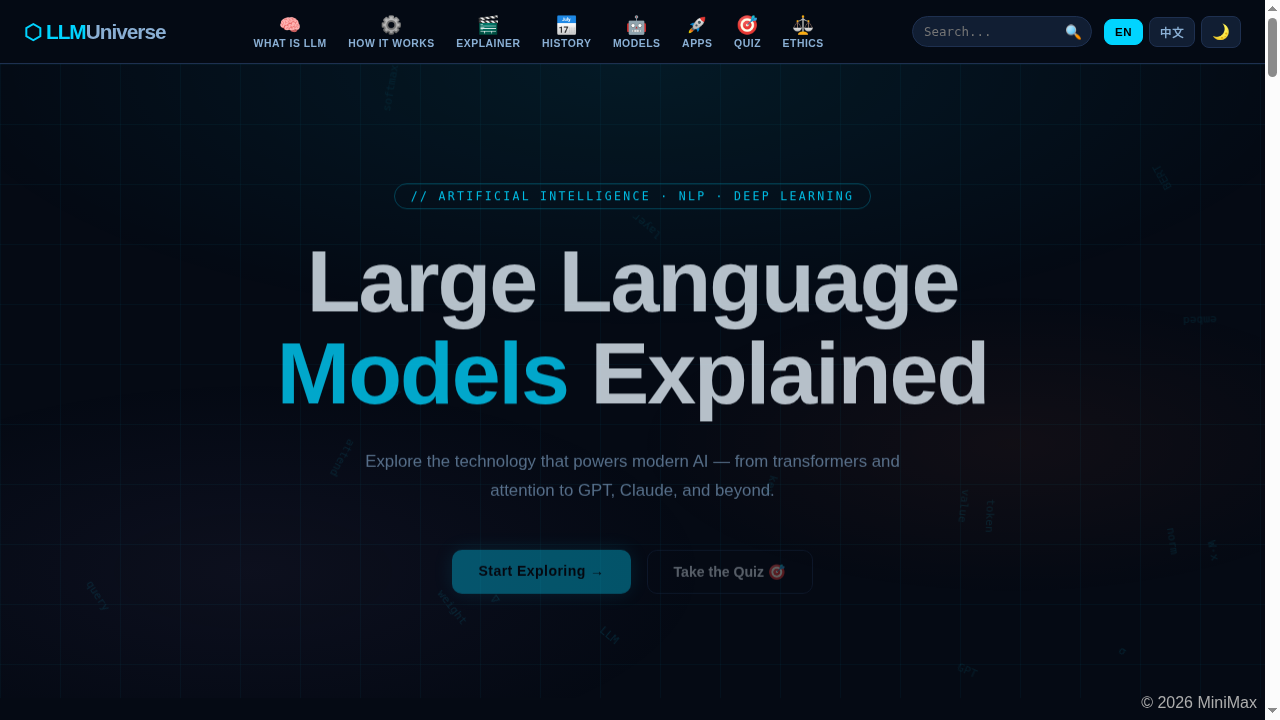
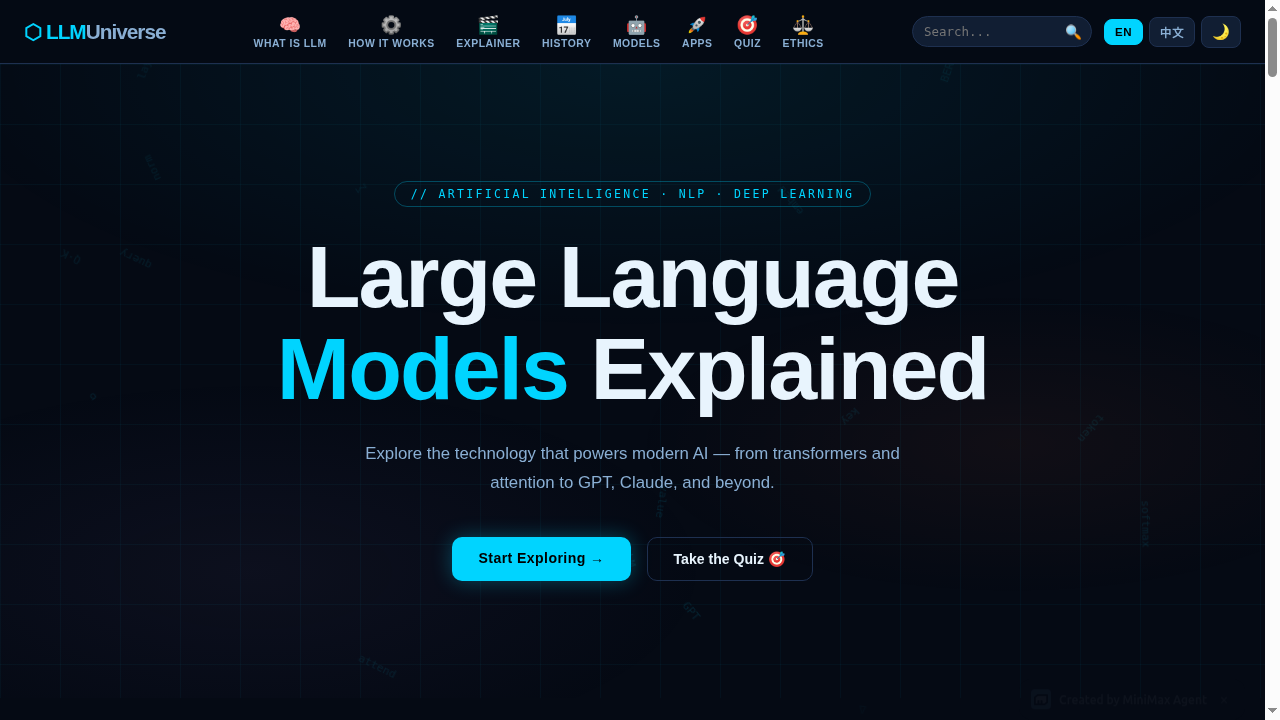
Update Assignment 1 live site URL to new MiniMax deployment

diff --git a/README.md b/README.md
@@ -134,16 +134,16 @@ Supporting deliverables across the semester (experiments above are the core tech
 
 | Assignment | Topic | Link |
 |------------|-------|------|
-| **1** | LLM Universe Educational Website (MiniMax) | [Live site](https://d00r08r76qg9.space.minimaxi.com/) · [assignment1/](assignment1/) |
+| **1** | LLM Universe Educational Website (MiniMax) | [Live site](https://6uejb4yfj0go.space.minimax.io) · [assignment1/](assignment1/) |
 | **2** | CNN-Based MNIST Digit Classification | [assignment2/](assignment2/) |
 | **3** | Swiss Cheese Testing & AI Failure Analysis | [assignment3/](assignment3/) |
 | **4** | Smart Water Decision Support Capstone | [assignment4/](assignment4/) |
 
 <p align="center">
-  <a href="https://d00r08r76qg9.space.minimaxi.com/">
+  <a href="https://6uejb4yfj0go.space.minimax.io">
     <img src="assets/llm_universe_preview.png" alt="Assignment 1 — LLM Universe" width="70%">
   </a><br>
-  <em>Assignment 1 — <a href="https://d00r08r76qg9.space.minimaxi.com/">LLM Universe</a> (MiniMax educational website)</em>
+  <em>Assignment 1 — <a href="https://6uejb4yfj0go.space.minimax.io">LLM Universe</a> (MiniMax educational website)</em>
 </p>
 
 ---

diff --git a/assignment1/README.md b/assignment1/README.md
@@ -11,7 +11,7 @@ Interactive **MiniMax** web application introducing Large Language Models, trans
 
 | Resource | Link |
 |----------|------|
-| **Live site** | [**LLM Universe — Large Language Models Explained**](https://d00r08r76qg9.space.minimaxi.com/) |
+| **Live site** | [**LLM Universe — Large Language Models Explained**](https://6uejb4yfj0go.space.minimax.io) |
 | Preview screenshot | [`assets/llm_universe_preview.png`](../assets/llm_universe_preview.png) |
 
 **Topic:** LLMs, AI foundations, and prompt engineering  
